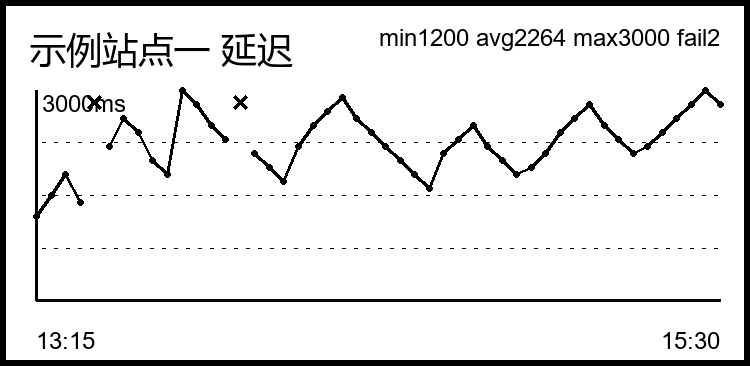
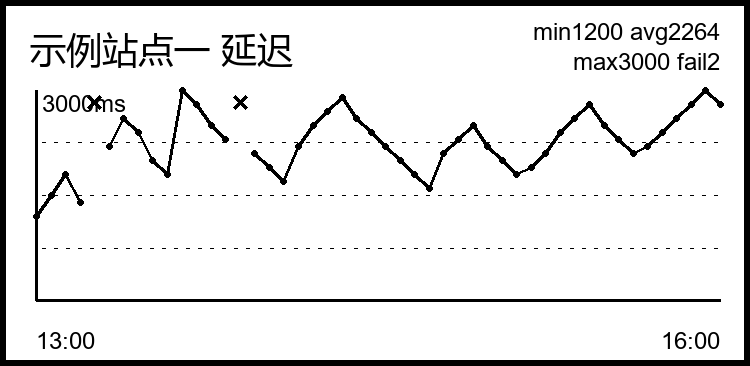
修复天气页中文标签字体被温度绘制覆盖导致空白的问题；延迟页统计改两行、时间轴仅显示整点；新增星期计算调试日志

Changed region(s): [[0.4907, 0.0601, 0.9813, 0.2104], [0.8893, 0.9016, 0.9507, 0.9617], [0.092, 0.9016, 0.1227, 0.9617]]

diff --git a/src/ui.cpp b/src/ui.cpp
@@ -298,6 +298,8 @@ void uiDrawForecast(const AppConfig& cfg, const ForecastInfo& fc,
     for (uint8_t i = 0; i < 4; i++) {
         int16_t cx = 2 + i * colW + colW / 2;
 
+        // 每列都要重设中文字体（温度绘制会切换成拉丁字体，必须还原）
+        u8g2.setFont(u8g2_font_wqy12_t_gb2312);
         int16_t w = u8g2.getUTF8Width(labels[i]);
         u8g2.setCursor(cx - w / 2, 22);
         u8g2.print(labels[i]);
@@ -395,21 +397,28 @@ void uiDrawLatency(const AppConfig& cfg, uint8_t index,
         }
     }
 
-    // 右上角统计（min / avg / max / fail）
-    char stats[56];
+    // 右上角统计：分两行显示，避免与标题"延迟"重叠
+    char stats1[32], stats2[32];
     if (vcnt > 0) {
-        snprintf(stats, sizeof(stats), "min%u avg%u max%u fail%u",
-                 (unsigned)vmin, (unsigned)(vsum / vcnt), (unsigned)vmax,
-                 (unsigned)fails);
+        snprintf(stats1, sizeof(stats1), "min%u avg%u",
+                 (unsigned)vmin, (unsigned)(vsum / vcnt));
+        snprintf(stats2, sizeof(stats2), "max%u fail%u",
+                 (unsigned)vmax, (unsigned)fails);
     } else {
-        snprintf(stats, sizeof(stats), "no data");
+        snprintf(stats1, sizeof(stats1), "no data");
+        stats2[0] = '\0';
     }
     u8g2.setFont(u8g2_font_helvB08_tf);
-    int16_t wStats = u8g2.getUTF8Width(stats);
-    u8g2.setCursor(SCREEN_W - 10 - wStats, 18);
-    u8g2.print(stats);
+    int16_t wS1 = u8g2.getUTF8Width(stats1);
+    u8g2.setCursor(SCREEN_W - 10 - wS1, 14);
+    u8g2.print(stats1);
+    if (stats2[0] != '\0') {
+        int16_t wS2 = u8g2.getUTF8Width(stats2);
+        u8g2.setCursor(SCREEN_W - 10 - wS2, 24);
+        u8g2.print(stats2);
+    }
 
-    // 底端时间轴标注：左端与右端对应的时刻
+    // 底端时间轴标注：只显示整点（小时）
     if (count > 0) {
         time_t nowT = time(nullptr);
         struct tm tmNow;
@@ -420,8 +429,8 @@ void uiDrawLatency(const AppConfig& cfg, uint8_t index,
         localtime_r(&startT, &tmStart);
 
         char tL[8], tR[8];
-        snprintf(tL, sizeof(tL), "%02d:%02d", tmStart.tm_hour, tmStart.tm_min);
-        snprintf(tR, sizeof(tR), "%02d:%02d", tmNow.tm_hour, tmNow.tm_min);
+        snprintf(tL, sizeof(tL), "%02d:00", tmStart.tm_hour);
+        snprintf(tR, sizeof(tR), "%02d:00", tmNow.tm_hour);
 
         u8g2.setCursor(x0, SCREEN_H - 6);
         u8g2.print(tL);

diff --git a/tools/render_pages.py b/tools/render_pages.py
@@ -138,13 +138,16 @@ for i, v in enumerate(samples):
     d.ellipse([px(x - 1), px(y - 1), px(x + 1), px(y + 1)], fill=BLACK)
     prev = (x, y)
 
-stats = "min1200 avg2264 max3000 fail2"
-sw = d.textlength(stats, font=font_small) / SCALE
-d.text((px(W - 10 - sw), px(8)), stats, font=font_small, fill=BLACK)
+stats1 = "min1200 avg2264"
+stats2 = "max3000 fail2"
+sw1 = d.textlength(stats1, font=font_small) / SCALE
+d.text((px(W - 10 - sw1), px(6)), stats1, font=font_small, fill=BLACK)
+sw2 = d.textlength(stats2, font=font_small) / SCALE
+d.text((px(W - 10 - sw2), px(16)), stats2, font=font_small, fill=BLACK)
 
-d.text((px(x0), px(H - 13)), "13:15", font=font_small, fill=BLACK)
-tw = d.textlength("15:30", font=font_small) / SCALE
-d.text((px(x1 - tw), px(H - 13)), "15:30", font=font_small, fill=BLACK)
+d.text((px(x0), px(H - 13)), "13:00", font=font_small, fill=BLACK)
+tw = d.textlength("16:00", font=font_small) / SCALE
+d.text((px(x1 - tw), px(H - 13)), "16:00", font=font_small, fill=BLACK)
 img.save(os.path.join(out_dir, "preview-latency.png"))
 
 print("已生成: docs/preview-weather.png, docs/preview-latency.png")

diff --git a/src/main.cpp b/src/main.cpp
@@ -181,6 +181,15 @@ void setup()
         }
 
         for (int i = 0; i < 50 && !timeIsValid(); i++) delay(200);
+
+        // 调试：打印当前本地时间与星期，便于核对天气页星期计算
+        time_t tt = time(nullptr);
+        struct tm lt;
+        localtime_r(&tt, &lt);
+        Serial.printf("[时间] 本地 %04d-%02d-%02d %02d:%02d 星期%d\n",
+                      lt.tm_year + 1900, lt.tm_mon + 1, lt.tm_mday,
+                      lt.tm_hour, lt.tm_min, (int)lt.tm_wday);
+
         if (weatherFetch(g_cfg, g_weather, g_forecast)) g_lastWeatherMs = millis();
     }
     if (WiFi.status() == WL_CONNECTED) {

diff --git a/src/net_tasks.cpp b/src/net_tasks.cpp
@@ -192,6 +192,8 @@ bool weatherFetch(const AppConfig& cfg, WeatherInfo& out, ForecastInfo& fc)
             tmv.tm_hour = 12;   // 用中午避免时区边界问题
             if (mktime(&tmv) > 0) {
                 fc.days[i].wday = (int8_t)tmv.tm_wday;
+                Serial.printf("[天气] 第%u天 %s => 星期%d\n",
+                              (unsigned)i, dateStr, (int)tmv.tm_wday);
             }
         }
     }
